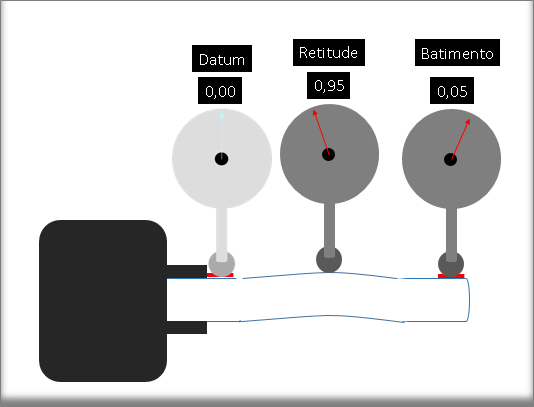
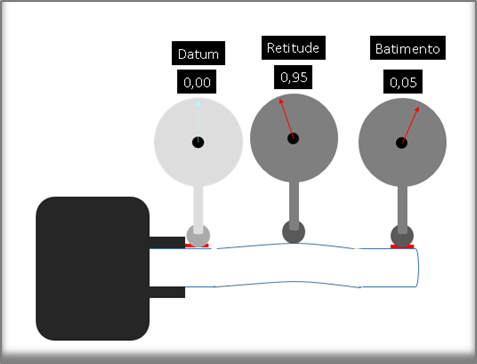
Ajuste img example
Ajuste img example

diff --git a/index.html b/index.html
@@ -225,7 +225,8 @@
                     Um exemplo dessa relação implicita: <br>
                     <br>
                     <img class="img-example-retitude+batimento"
-                        src="example-retitude+batimento.png" alt>
+                        src="example-retitude+batimento.png" alt
+                        style="width: 200px;">
                     <br>
                     <br>
                     É como se o elemento a ser controlado estivesse concentrico
@@ -265,9 +266,6 @@
                     </div>
 
                     <a
-                      
-                       
-
                         <img class="img-profile" src="img-profile.png" alt>
                     </a>
                     <a
